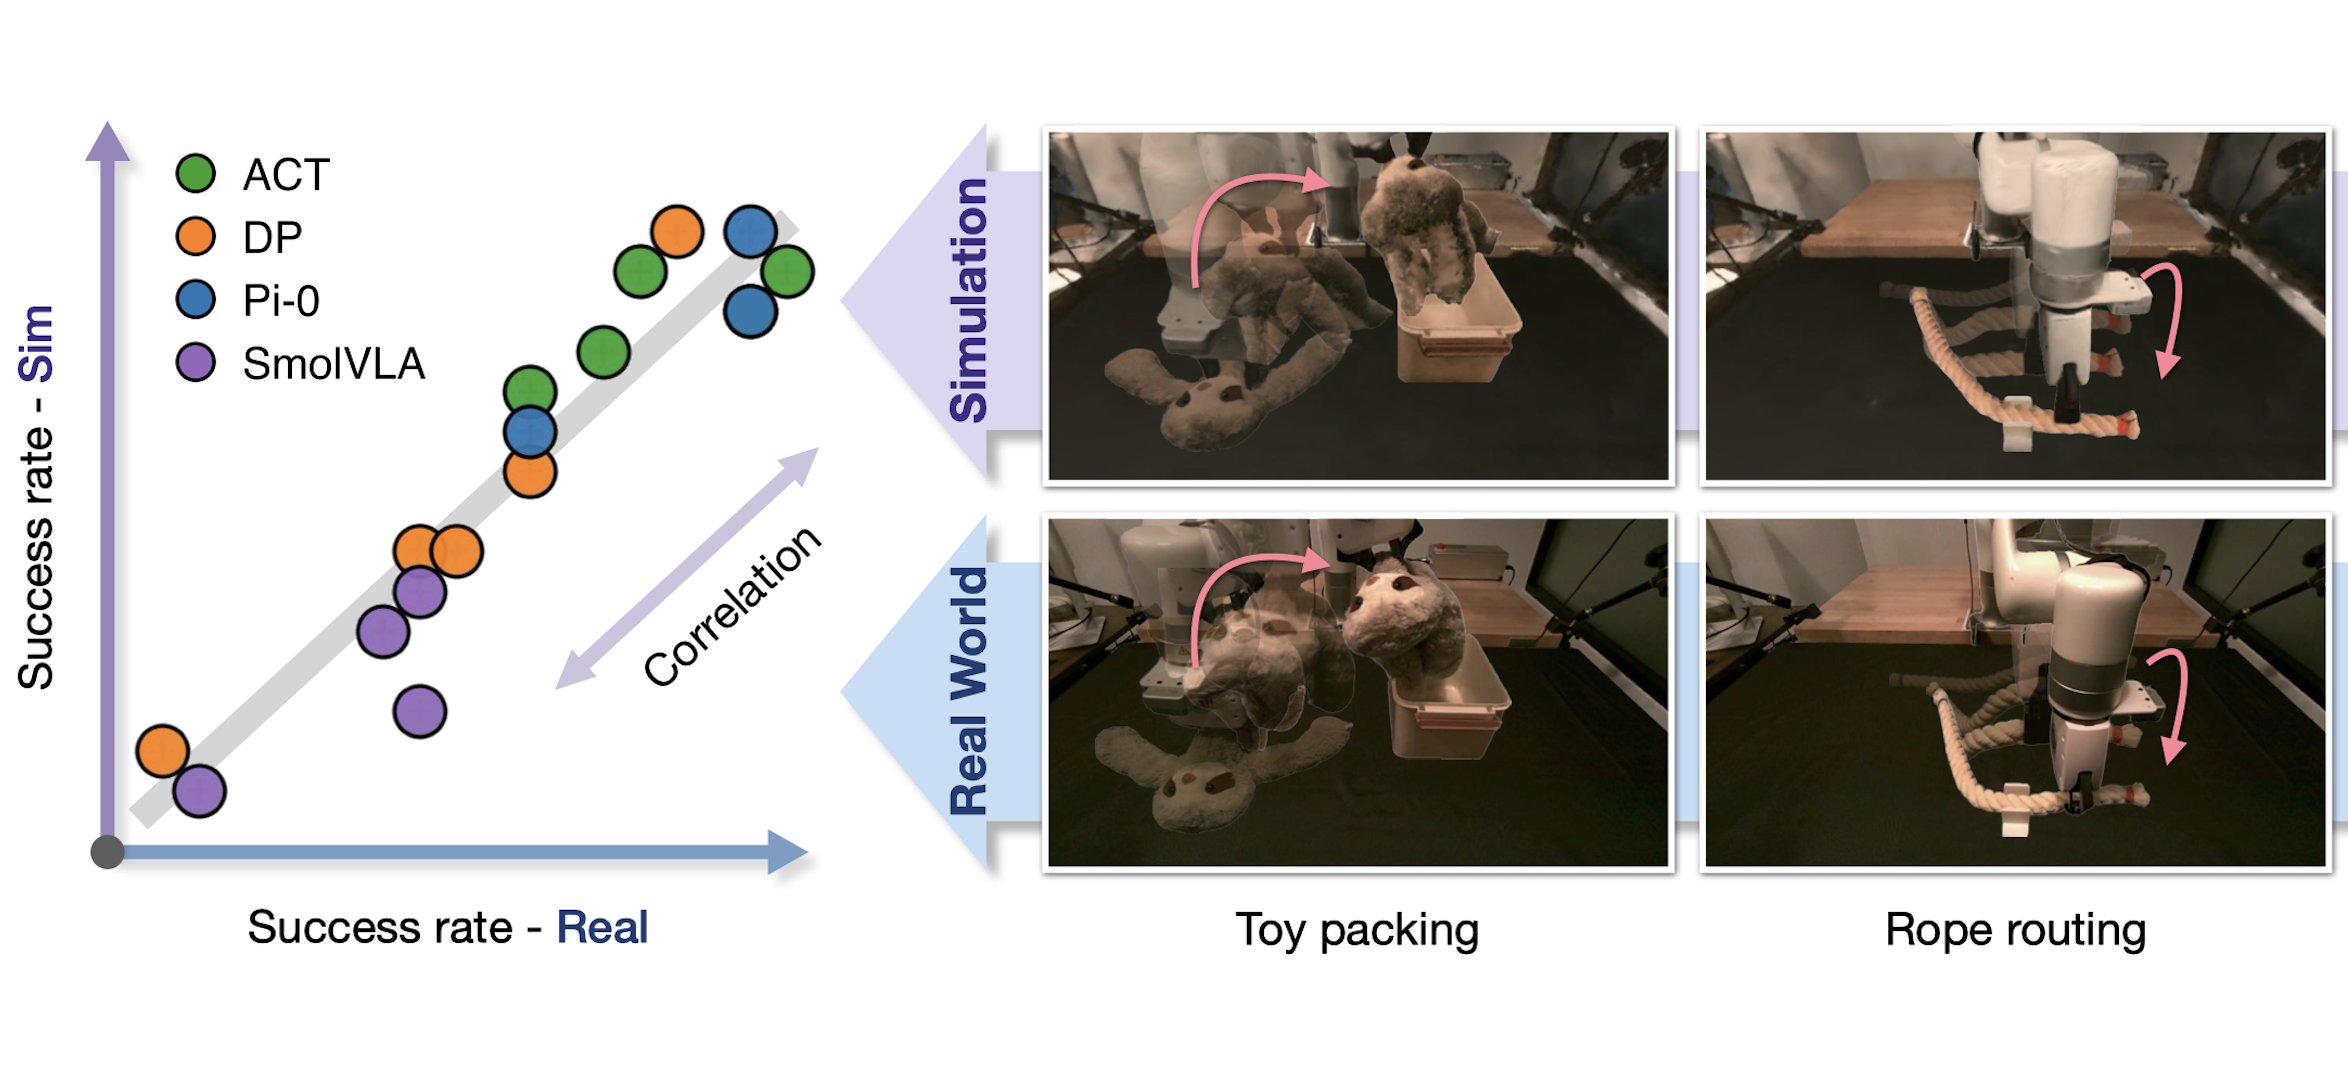
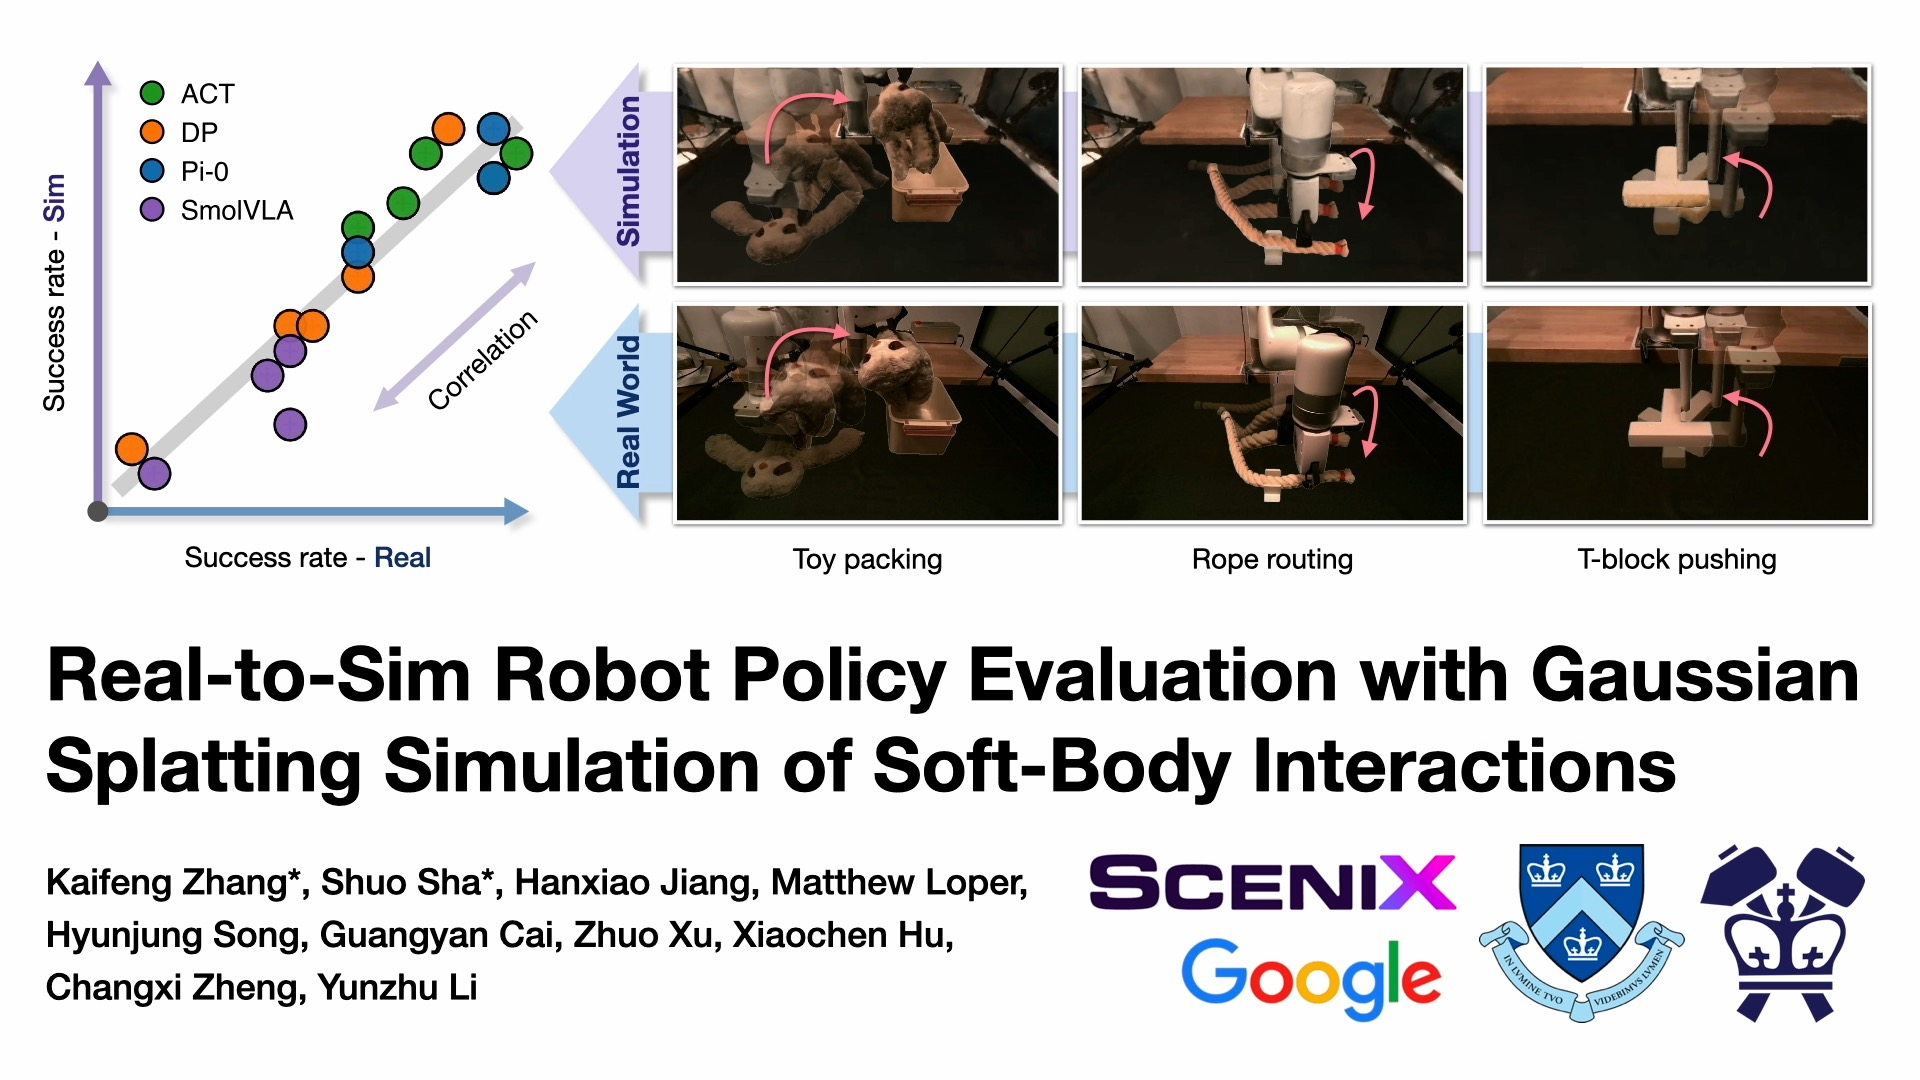
update code link and caption image

diff --git a/index.html b/index.html
@@ -125,7 +125,7 @@
                     <div class="research-links">
                         <a href="https://real2sim-eval.github.io/">website</a> |
                         <a href="#">paper</a> |
-                        <a href="#">code</a>
+                        <a href="https://github.com/kywind/real2sim-eval">code</a>
                     </div>
                     </div>
                 </li>
